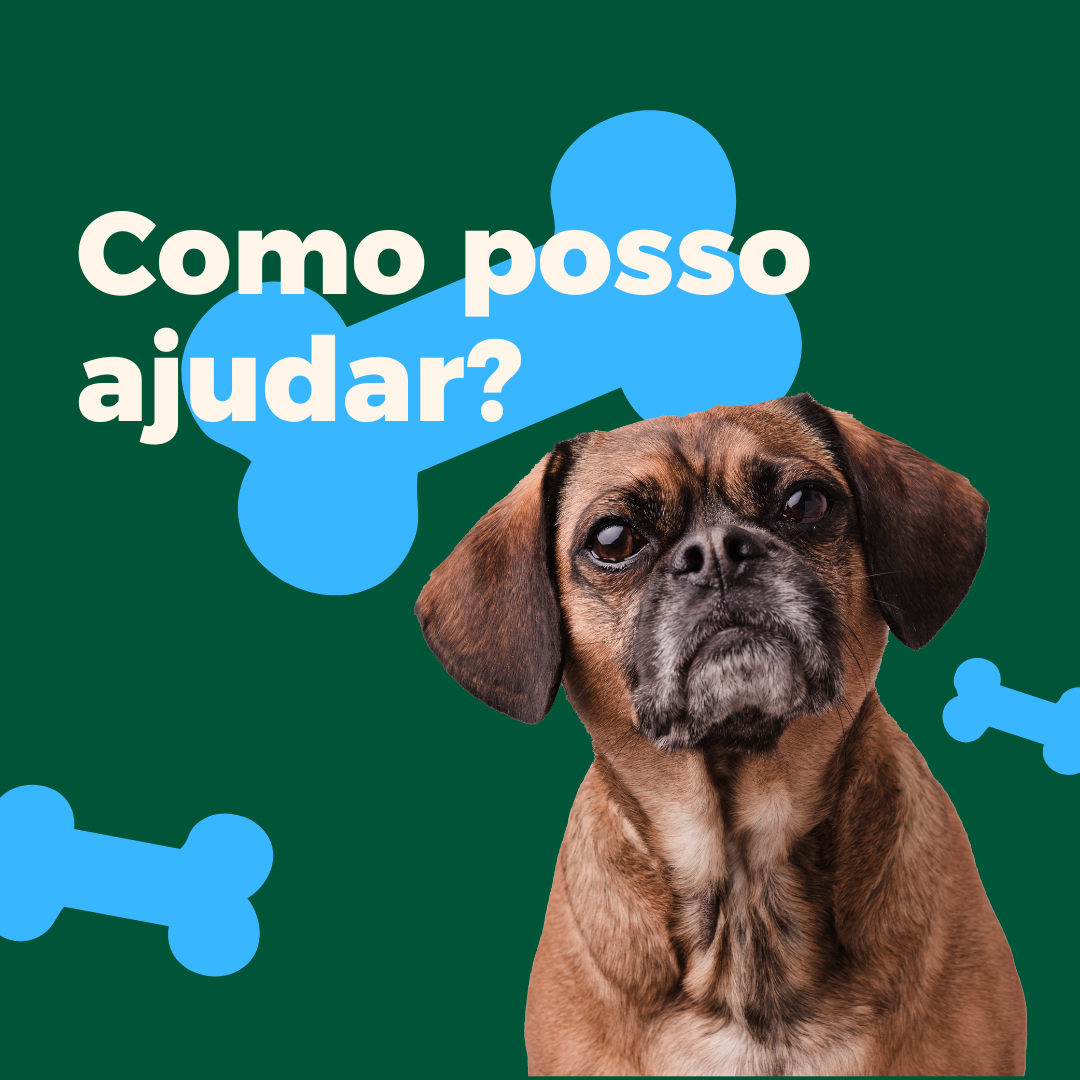
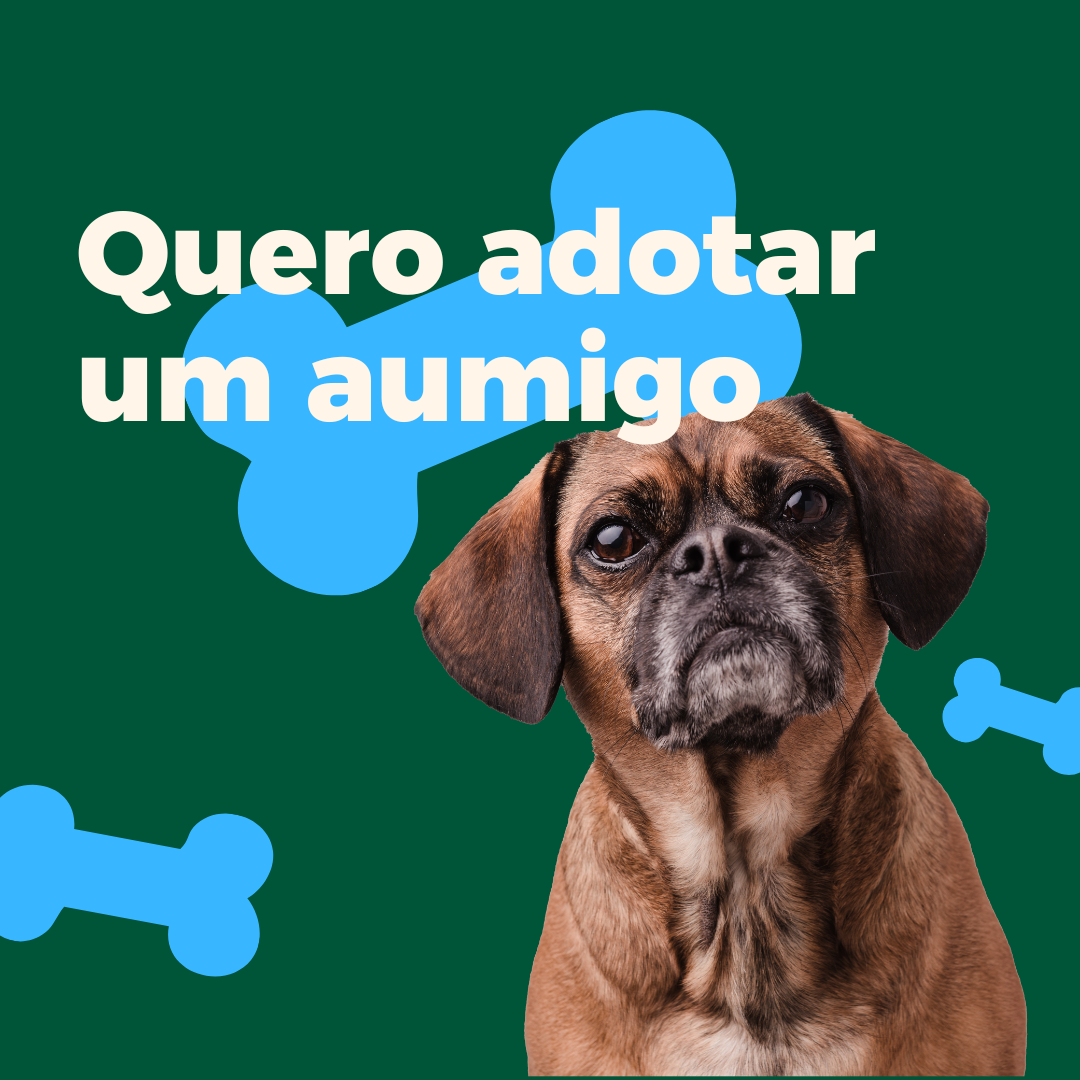
Adicionando informações ao front

Changed region(s): [[0.0611, 0.1833, 0.825, 0.4278]]

diff --git a/resources/view/pages/institucional.html b/resources/view/pages/institucional.html
@@ -71,29 +71,49 @@
     <div class="row">
         <h1></h1>
         <div class="col-12" id="featured-images">
-            <div class="row g-4">
-                <div class="col-12 col-md-4">
-                    <img src="resources/view/img/doacao/como_apadrinhar.png" alt="Projeto 1" class="img-fluid">
-                    <div class="banner-content">
-                        <a href="{{URL}}/doacao" class="stretched-link"></a>
-                    </div>
-                </div>
-                <div class="col-12 col-md-4">
+            <div class="row g-3">
+                <div class="col-4 col-md-4">
                     <img src="resources/view/img/doacao/como_ajudar.png" alt="Projeto 2" class="img-fluid">
                     <div class="banner-content">
+                        <a href="https://docs.google.com/forms/d/e/1FAIpQLScPnNVMKjj-TvvGQXmQ_gDmHZn39xkvEvqVT2cf18v7zvZkEQ/viewform" class="stretched-link"></a>
+                    </div>
+                </div>
+                <div class="col-4 col-md-4">
+                    <img src="resources/view/img/doacao/como_apadrinhar.png" alt="Projeto 1" class="img-fluid">
+                    <div class="banner-content">
+                        <a href="{{URL}}/adote" class="stretched-link"></a>
+                    </div>
+                </div>
+                <div class="col-4 col-md-4">
+                    <img src="resources/view/img/doacao/ajuda_financeira_index.png" alt="Projeto 3" class="img-fluid">
+                    <div class="banner-content">
                         <a href="{{URL}}/doacao" class="stretched-link"></a>
                     </div>
                 </div>
-                <div class="col-12 col-md-4">
+                <div class="col-4 col-md-4">
                     <img src="resources/view/img/doacao/roupas.png" alt="Projeto 3" class="img-fluid">
                     <div class="banner-content">
                         <a href="{{URL}}/doacao" class="stretched-link"></a>
+                    </div>
+                </div>
+                <div class="col-4 col-md-4">
+                    <img src="resources/view/img/doacao/galeria.png" alt="Projeto 3" class="img-fluid">
+                    <div class="banner-content">
+                        <a href="https://www.facebook.com/ongtodobichopira/photos/?ref=page_internal" class="stretched-link"></a>
+                    </div>
+                </div>
+                <div class="col-4 col-md-4">
+                    <img src="resources/view/img/doacao/contato.png" alt="Projeto 3" class="img-fluid">
+                    <div class="banner-content">
+                        <a href="https://api.whatsapp.com/send?phone=5511998973034&text=Oi%C3%A1%2C%20gostaria%20de%20ajudar%20a%20Ong%20Todo%20Bicho%20" class="stretched-link"></a>
                     </div>
                 </div>
             </div>
         </div>
     </div>
 </div>
+
+
 
 
 <!-- INFO -->
@@ -110,7 +130,9 @@
             <div class="col-12 col-md-7 bg-secondary-color" id="info-content">
                 <div class="row">
                     <div class="col-12">
-                        <p class=" primary-color about-ong">Somos um abrigo localizado eem Pirassununga, São Paulo. Estamos aproximadamente com 70 cães, vítimas de maus tratos e abandono. Realizamos a vacinação e castração dos animais, e então encaminhamos para doação. Aceitamos todas as formas de doação, financeiramente e com produtos. Protegemos com muito amor todos os nossos animais.
+                        <p class=" primary-color about-ong">>Somos um lar transitório de animais resgatados localizado em Pirassununga - São Paulo.
+                            Após o resgate, o animal é cuidado, vacinado e castrada e aguarda um lar responsável cheio de amor.
+                            Aceitamos doações financeiras e de utensílios.
                         </p>
                     </div>
 

diff --git a/resources/view/pages/doacao.html b/resources/view/pages/doacao.html
@@ -1,4 +1,3 @@
-<!-- DESTAQUES-->
 
 <div class="container" id="featured-container">
     <h1 class="text-center title_donation primary-color ">Sua doação é muito importante!</h1>
@@ -8,26 +7,23 @@
     <div class="col-12 " id="featured-images">
         <div class="row g-4">
             <div class="col-12 col-md-4">
-                <a href="{{URL}}/adote" class="stretched-link"><img src='resources/view/img/doacao/como_apadrinhar.png' alt="Projeto 2" class="img-fluid"></a>
+                <a href="adote.html" class="stretched-link"><img src='resources/view/img/doacao/como_apadrinhar.png' alt="Projeto 2" class="img-fluid"></a>
                 <h2 class="subtitle subtitle_donation"> Quero virar um padrinho </h2>
-                <p> Clicando no cartão de apadrinhamento você vai ser redirecionado para uma página especial. Lá você encontra todos os cachorros disponíveis para <b>Apadrinhamento</b> e <b>Adoção</b>.</p>
+                <p> O apadrinhamento é uma forma de ajudar a ONG atraves de um valor mensal fixo, o qual será direcionado para melhorar a qualidade de vida do peludo escolhido.</p>
                 <img class="img-fluid img-teste" src="resources/view/img/doacao/racao.png">
             </div>
             <div class="col-12 col-md-4">
-                <img src='resources/view/img/doacao/como_ajudar.png' alt="Projeto 1" class="img-fluid">
+                <img src='resources/view/img/doacao/ajuda_financeira.png' alt="Projeto 1" class="img-fluid">
                 <h2 class="subtitle subtitle_donation"> Quero ajudar financeiramente </h2>
                 <p>Aceitamos doações via PIX e transação bancaria!</p>
 
-                <h3 class="pix-text">PIX</h3>
 
-                <h3 class="pix-text">Transferência bancária</h3>
-                <p><b>Banco:</b> Banco do Brasil</p>
-                <p><b>Agência:</b> 0163-5</p>
-                <p><b>Conta Corrente:</b> 58.628-5</p>
-                <img class="img-fluid" src="resources/view/img/doacao/dinheiro.png">
+                <img class="img-fluid img-teste-pix " src="resources/view/img/qr_code.png">
+
+
             </div>
             <div class="col-12 col-md-4">
-                <a href="https://api.whatsapp.com/send?phone=5511998973034&text=Ol%C3%A1%2C%20gostaria%20de%20ajudar%20a%20Ong%20Todo%20Bicho%20com%20alguns%20itens%2C%20quais%20itens%20voc%C3%AAs%20est%C3%A3o%20aceitando%20no%20momento%3F%20"><img src='resources/view/img/doacao/roupas.png' alt="Projeto 3" class="img-fluid"></a>
+                <a href="ho%20com%20alguns%20itens%2C%20quais%20itens%20voc%C3%AAs%20est%C3%A3o%20aceitando%20no%20momento%3F%20"><img src='resources/view/img/doacao/roupas.png' alt="Projeto 3" class="img-fluid"></a>
                 <h2 class="subtitle subtitle_donation"> Quero ajudar com alguns produtos </h2>
                 <p>Clicando no cartão de doação você vai ser redirecionado para uma página de contato via WhatsApp. Lá você consegue entrar em contato e conversar com nosso voluntário responsável pelo recebimento.</p>
                 <img class="img-fluid img-teste" src="resources/view/img/doacao/racao.png">

diff --git a/routes/admin.php b/routes/admin.php
@@ -50,7 +50,7 @@ $obRouter->get('/painel', [ 'middlewares' =>['required-admin-login'],
 //ROTA PAINEL
 $obRouter->get('/delete', [ 'middlewares' =>['required-admin-login'],
     function(){
-        return new Response(200, Pages\());
+        return new Response(200, Pages());
     }
 ]);
 
